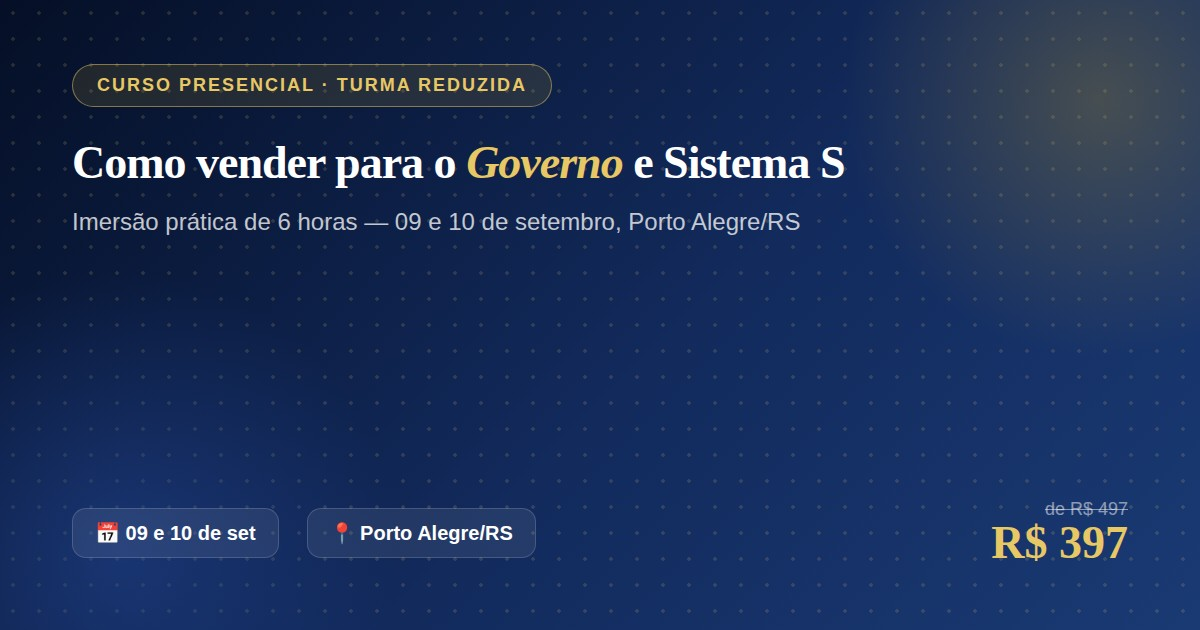
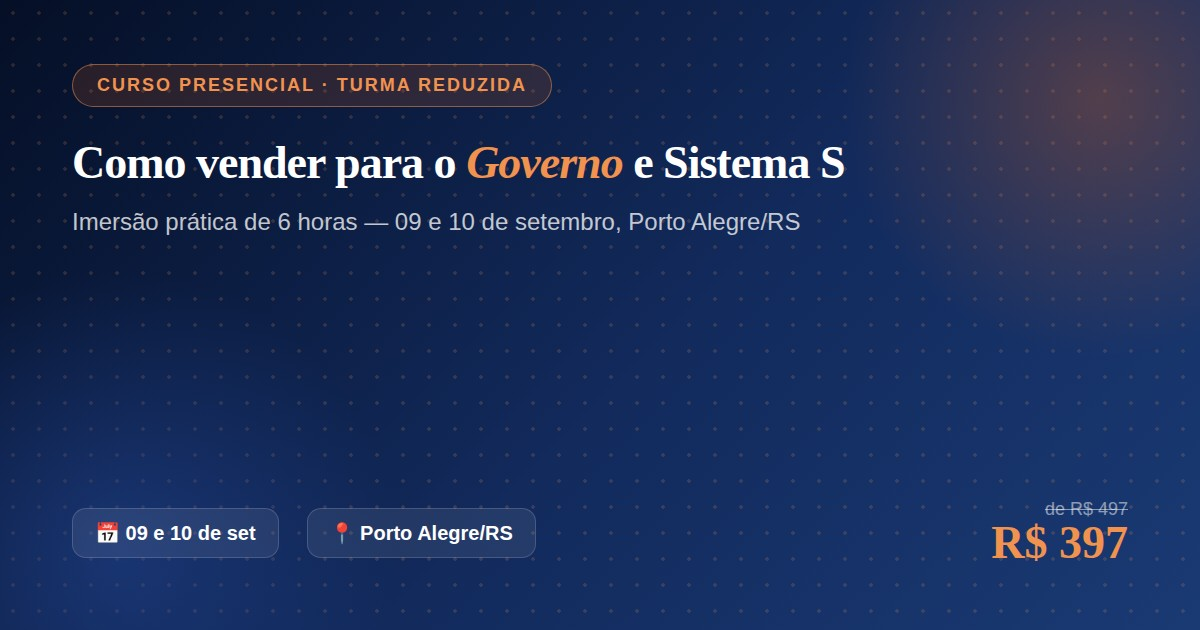
Warm up the palette: gold to terracotta orange, Bitter headlines
Swaps the metallic gold accent for a warmer terracotta/orange tone
throughout (buttons, badges, borders, dot texture) and replaces the
Fraunces display serif with Bitter — a sturdier, warmer slab serif —
for a more welcoming feel per feedback that the page read as flat.
Also warms the base background off pure white and regenerates the
share-preview image to match.

Changed region(s): [[0.0617, 0.1206, 0.4317, 0.1508], [0.8325, 0.8143, 0.9558, 0.9048], [0.37, 0.2413, 0.5242, 0.3016]]

diff --git a/index.html b/index.html
@@ -18,36 +18,36 @@
 <link rel="icon" type="image/png" href="assets/logo/simbolo-azul-profundo.png" />
 <link rel="preconnect" href="https://fonts.googleapis.com" />
 <link rel="preconnect" href="https://fonts.gstatic.com" crossorigin />
-<link href="https://fonts.googleapis.com/css2?family=Fraunces:opsz,wght@9..144,400;9..144,500;9..144,600;9..144,700;9..144,800;9..144,900&family=Inter:wght@400;500;600;700;800;900&display=swap" rel="stylesheet" />
+<link href="https://fonts.googleapis.com/css2?family=Bitter:ital,wght@0,400;0,500;0,600;0,700;0,800;0,900;1,600&family=Inter:wght@400;500;600;700;800;900&display=swap" rel="stylesheet" />
 <style>
   :root {
     --azul-950:#050f26; --azul-900:#0a1f44; --azul-850:#0d264f; --azul-800:#122a5c;
     --azul-700:#1a3a74; --azul-600:#24499a; --azul-100:#e6ecfb; --azul-50:#f6f8fd;
     --marfim:#f8f4ea; --marfim-escuro:#efe6cf;
-    --dourado:#c9a227; --dourado-claro:#e8c765; --dourado-suave:#f4e5a1; --dourado-escuro:#8a6a15;
+    --laranja:#e2661a; --laranja-claro:#f2924f; --laranja-suave:#fbdcb8; --laranja-escuro:#a8460e;
     --esmeralda:#2f6d55; --esmeralda-bg:#e7f2ec;
     --vermelho:#b23b3b; --vermelho-bg:#fbeaea;
     --cinza-700:#374151; --cinza-600:#4b5563; --cinza-400:#9ca3af; --branco:#fff;
     --sombra:0 24px 60px rgba(5,15,38,.14); --sombra-sm:0 8px 24px rgba(5,15,38,.08);
     --raio:18px;
-    --grad-ouro:linear-gradient(135deg,var(--dourado-suave),var(--dourado-claro) 45%,var(--dourado));
+    --grad-laranja:linear-gradient(135deg,var(--laranja-suave),var(--laranja-claro) 45%,var(--laranja));
     --grad-azul:linear-gradient(135deg,var(--azul-950),var(--azul-800) 55%,var(--azul-700));
-    --pontilhado:radial-gradient(rgba(232,199,101,.16) 1px,transparent 1.5px);
+    --pontilhado:radial-gradient(rgba(242,146,79,.16) 1px,transparent 1.5px);
   }
   *{margin:0;padding:0;box-sizing:border-box}
   html{scroll-behavior:smooth}
-  body{font-family:'Inter',system-ui,sans-serif;color:var(--cinza-700);background:var(--branco);line-height:1.65;-webkit-font-smoothing:antialiased}
+  body{font-family:'Inter',system-ui,sans-serif;color:var(--cinza-700);background:#fffaf4;line-height:1.65;-webkit-font-smoothing:antialiased}
   .container{max-width:1140px;margin:0 auto;padding:0 20px}
-  h1,h2,h3{font-family:'Fraunces',serif}
+  h1,h2,h3{font-family:'Bitter',serif}
   em{font-style:italic}
 
   /* ===== TOPO ===== */
-  .topbar{background:var(--azul-950);color:rgba(255,255,255,.88);font-size:13px;font-weight:600;text-align:center;padding:11px 16px;letter-spacing:.3px;border-bottom:1px solid rgba(201,162,39,.25);display:flex;align-items:center;justify-content:center;gap:9px}
+  .topbar{background:var(--azul-950);color:rgba(255,255,255,.88);font-size:13px;font-weight:600;text-align:center;padding:11px 16px;letter-spacing:.3px;border-bottom:1px solid rgba(226,102,26,.25);display:flex;align-items:center;justify-content:center;gap:9px}
   .topbar img{height:16px;width:auto;opacity:.9}
-  .topbar span{color:var(--dourado-claro);font-weight:800}
+  .topbar span{color:var(--laranja-claro);font-weight:800}
 
   /* ===== CTA FIXA ===== */
-  .cta-fixa{position:fixed;top:0;left:0;right:0;background:var(--azul-950);border-bottom:1px solid rgba(201,162,39,.3);box-shadow:0 8px 24px rgba(5,15,38,.25);z-index:1000;transform:translateY(-100%);transition:transform .3s ease}
+  .cta-fixa{position:fixed;top:0;left:0;right:0;background:var(--azul-950);border-bottom:1px solid rgba(226,102,26,.3);box-shadow:0 8px 24px rgba(5,15,38,.25);z-index:1000;transform:translateY(-100%);transition:transform .3s ease}
   .cta-fixa.visivel{transform:translateY(0)}
   .cta-fixa .container{display:flex;align-items:center;justify-content:space-between;gap:16px;padding:12px 20px}
   .cta-fixa-texto{display:flex;flex-direction:column;color:#fff}
@@ -58,14 +58,14 @@
 
   /* ===== HERO ===== */
   .hero{position:relative;background:var(--pontilhado),var(--grad-azul);background-size:22px 22px,auto;color:#fff;padding:88px 0 0;overflow:hidden}
-  .hero::before{content:"";position:absolute;top:-140px;right:-140px;width:460px;height:460px;background:radial-gradient(circle,rgba(201,162,39,.22),transparent 70%);border-radius:50%}
+  .hero::before{content:"";position:absolute;top:-140px;right:-140px;width:460px;height:460px;background:radial-gradient(circle,rgba(226,102,26,.22),transparent 70%);border-radius:50%}
   .hero::after{content:"";position:absolute;bottom:-180px;left:-140px;width:520px;height:520px;background:radial-gradient(circle,rgba(36,73,154,.45),transparent 70%);border-radius:50%}
   .hero .container{position:relative;z-index:2;padding-bottom:64px}
-  .badge{display:inline-flex;align-items:center;gap:9px;background:rgba(201,162,39,.12);border:1px solid rgba(232,199,101,.5);color:var(--dourado-claro);font-weight:700;font-size:12.5px;text-transform:uppercase;letter-spacing:1.6px;padding:9px 20px;border-radius:100px;margin-bottom:26px}
-  .badge .ponto{width:7px;height:7px;background:var(--dourado-claro);border-radius:50%;animation:pulse 1.8s infinite}
+  .badge{display:inline-flex;align-items:center;gap:9px;background:rgba(226,102,26,.12);border:1px solid rgba(242,146,79,.5);color:var(--laranja-claro);font-weight:700;font-size:12.5px;text-transform:uppercase;letter-spacing:1.6px;padding:9px 20px;border-radius:100px;margin-bottom:26px}
+  .badge .ponto{width:7px;height:7px;background:var(--laranja-claro);border-radius:50%;animation:pulse 1.8s infinite}
   @keyframes pulse{0%,100%{opacity:1;transform:scale(1)}50%{opacity:.35;transform:scale(.7)}}
   .hero h1{font-size:clamp(32px,5vw,54px);font-weight:800;line-height:1.16;letter-spacing:-.5px;margin-bottom:24px;max-width:820px}
-  .hero h1 em{font-style:italic;font-weight:700;color:var(--dourado-claro)}
+  .hero h1 em{font-style:italic;font-weight:700;color:var(--laranja-claro)}
   .hero .subtitulo{font-size:clamp(16px,1.9vw,19px);font-weight:400;color:rgba(255,255,255,.82);max-width:660px;margin-bottom:34px}
   .hero .subtitulo strong{color:#fff;font-weight:700}
   .hero-instrutores{display:inline-flex;align-items:center;gap:12px;background:rgba(255,255,255,.05);border:1px solid rgba(255,255,255,.12);padding:8px 18px 8px 8px;border-radius:100px;margin-bottom:32px}
@@ -73,22 +73,22 @@
   .hero-instrutores .avatares img{width:34px;height:34px;border-radius:50%;object-fit:cover;border:2px solid var(--azul-900);box-shadow:0 2px 8px rgba(0,0,0,.3)}
   .hero-instrutores .avatares img:not(:first-child){margin-left:-10px}
   .hero-instrutores span{font-size:13px;font-weight:600;color:rgba(255,255,255,.85)}
-  .hero-instrutores strong{color:var(--dourado-claro);font-weight:700}
+  .hero-instrutores strong{color:var(--laranja-claro);font-weight:700}
 
   .info-evento{display:flex;flex-wrap:wrap;gap:12px;margin-bottom:36px}
   .info-chip{display:inline-flex;align-items:center;gap:9px;background:rgba(255,255,255,.07);border:1px solid rgba(255,255,255,.14);backdrop-filter:blur(6px);padding:10px 17px;border-radius:12px;font-size:13.5px;font-weight:600;color:rgba(255,255,255,.92)}
 
-  .cta-principal{display:inline-flex;align-items:center;justify-content:center;gap:10px;background:var(--grad-ouro);color:var(--azul-950);font-weight:800;font-size:16px;letter-spacing:.2px;padding:18px 32px;border-radius:12px;text-decoration:none;box-shadow:0 14px 34px rgba(201,162,39,.32);transition:transform .2s,box-shadow .2s;margin-bottom:14px;cursor:pointer;border:none}
-  .cta-principal:hover{transform:translateY(-3px);box-shadow:0 20px 44px rgba(201,162,39,.42)}
+  .cta-principal{display:inline-flex;align-items:center;justify-content:center;gap:10px;background:var(--grad-laranja);color:var(--azul-950);font-weight:800;font-size:16px;letter-spacing:.2px;padding:18px 32px;border-radius:12px;text-decoration:none;box-shadow:0 14px 34px rgba(226,102,26,.32);transition:transform .2s,box-shadow .2s;margin-bottom:14px;cursor:pointer;border:none}
+  .cta-principal:hover{transform:translateY(-3px);box-shadow:0 20px 44px rgba(226,102,26,.42)}
   .cta-secundario{display:inline-flex;align-items:center;gap:10px;color:#fff;font-weight:600;font-size:14.5px;text-decoration:none;padding:16px 26px;border:1.5px solid rgba(255,255,255,.32);border-radius:12px;margin-left:12px;transition:background .2s,border-color .2s}
   .cta-secundario:hover{background:rgba(255,255,255,.08);border-color:rgba(255,255,255,.5)}
   .cta-linha{display:flex;flex-wrap:wrap;align-items:center}
   .vagas{font-size:14px;color:rgba(255,255,255,.72);font-weight:500;margin-top:6px}
-  .vagas b{color:var(--dourado-claro);font-weight:700}
+  .vagas b{color:var(--laranja-claro);font-weight:700}
 
   .countdown-wrap{display:grid;grid-template-columns:repeat(4,1fr);gap:12px;max-width:460px;margin-top:38px}
   .count-item{background:rgba(255,255,255,.06);border:1px solid rgba(255,255,255,.14);border-radius:14px;padding:15px 10px;text-align:center}
-  .count-item .num{font-family:'Fraunces',serif;font-size:30px;font-weight:700;color:var(--dourado-claro);line-height:1}
+  .count-item .num{font-family:'Bitter',serif;font-size:30px;font-weight:700;color:var(--laranja-claro);line-height:1}
   .count-item .label{font-size:10.5px;text-transform:uppercase;letter-spacing:1.2px;color:rgba(255,255,255,.65);margin-top:6px}
   .countdown-titulo{font-size:13.5px;font-weight:600;color:rgba(255,255,255,.7);margin-bottom:14px}
 
@@ -96,12 +96,12 @@
   .trust-bar{background:var(--marfim);border-bottom:1px solid var(--marfim-escuro)}
   .trust-grid{display:grid;grid-template-columns:repeat(4,1fr);gap:8px;padding:26px 0}
   .trust-item{display:flex;align-items:center;gap:10px;justify-content:center;text-align:center;font-size:13.5px;font-weight:700;color:var(--azul-900);padding:6px 10px}
-  .trust-item .marca{color:var(--dourado-escuro);font-family:'Fraunces',serif;font-weight:700}
+  .trust-item .marca{color:var(--laranja-escuro);font-family:'Bitter',serif;font-weight:700}
 
   /* ===== SEÇÕES ===== */
   section{padding:88px 0}
   .section-tag{display:inline-block;color:var(--azul-600);background:var(--azul-50);border:1px solid var(--azul-100);font-size:11.5px;font-weight:800;text-transform:uppercase;letter-spacing:1.5px;padding:7px 16px;border-radius:100px;margin-bottom:16px}
-  .section-tag.dourado{color:var(--dourado-escuro);background:#fdf7e4;border-color:#eddca0}
+  .section-tag.laranja{color:var(--laranja-escuro);background:#fdf0e4;border-color:#f3cda3}
   h2.titulo-secao{font-size:clamp(26px,3.4vw,40px);font-weight:700;letter-spacing:-.5px;line-height:1.22;color:var(--azul-950);margin-bottom:16px}
   .subtitulo-secao{font-size:16.5px;color:var(--cinza-600);max-width:680px}
   .centro{text-align:center}
@@ -109,9 +109,9 @@
 
   /* ===== VOCÊ SABIA ===== */
   .voce-sabia{background:linear-gradient(180deg,#faf8f0,#fff)}
-  .destaque-chamada{background:var(--pontilhado),var(--grad-azul);background-size:22px 22px,auto;color:#fff;border-radius:var(--raio);padding:46px 42px;position:relative;overflow:hidden;box-shadow:var(--sombra);border:1px solid rgba(201,162,39,.25)}
-  .destaque-chamada p{font-size:clamp(16px,1.9vw,19px);max-width:800px;color:rgba(255,255,255,.9);font-family:'Fraunces',serif;font-weight:400;line-height:1.55}
-  .destaque-chamada b{color:var(--dourado-claro);font-weight:700}
+  .destaque-chamada{background:var(--pontilhado),var(--grad-azul);background-size:22px 22px,auto;color:#fff;border-radius:var(--raio);padding:46px 42px;position:relative;overflow:hidden;box-shadow:var(--sombra);border:1px solid rgba(226,102,26,.25)}
+  .destaque-chamada p{font-size:clamp(16px,1.9vw,19px);max-width:800px;color:rgba(255,255,255,.9);font-family:'Bitter',serif;font-weight:400;line-height:1.55}
+  .destaque-chamada b{color:var(--laranja-claro);font-weight:700}
 
   /* ===== MITO vs VERDADE ===== */
   .mito{background:var(--azul-50)}
@@ -121,7 +121,7 @@
   .mito-card.mito-verdade{background:var(--grad-azul);color:#fff;border:1.5px solid var(--azul-900)}
   .mito-card .rotulo{font-size:11.5px;font-weight:800;text-transform:uppercase;letter-spacing:1.5px;margin-bottom:12px}
   .mito-falso .rotulo{color:var(--vermelho)}
-  .mito-verdade .rotulo{color:var(--dourado-claro)}
+  .mito-verdade .rotulo{color:var(--laranja-claro)}
   .mito-card h3{font-size:19px;font-weight:700;margin-bottom:10px;line-height:1.35}
   .mito-verdade h3{color:#fff}
   .mito-card p{font-size:14.5px;color:var(--cinza-600)}
@@ -130,7 +130,7 @@
   /* ===== PARA QUEM É ===== */
   .perfis{display:grid;grid-template-columns:repeat(auto-fit,minmax(280px,1fr));gap:16px;margin-top:38px}
   .perfil-card{display:flex;align-items:flex-start;gap:14px;background:#fff;border:1px solid #e7e0cd;border-radius:14px;padding:20px;transition:transform .2s,box-shadow .2s,border-color .2s}
-  .perfil-card:hover{transform:translateY(-4px);box-shadow:var(--sombra-sm);border-color:var(--dourado-claro)}
+  .perfil-card:hover{transform:translateY(-4px);box-shadow:var(--sombra-sm);border-color:var(--laranja-claro)}
   .perfil-card .check{flex-shrink:0;width:28px;height:28px;background:var(--esmeralda-bg);color:var(--esmeralda);border-radius:50%;display:grid;place-items:center;font-size:13px;font-weight:900}
   .perfil-card p{font-weight:600;color:#1f2937;font-size:15px}
 
@@ -140,12 +140,12 @@
   .modulos .subtitulo-secao{color:rgba(255,255,255,.68)}
   .modulos-grid{display:grid;grid-template-columns:repeat(auto-fit,minmax(320px,1fr));gap:18px;margin-top:42px}
   .modulo-card{background:rgba(255,255,255,.04);border:1px solid rgba(255,255,255,.1);border-radius:var(--raio);padding:28px;transition:transform .25s,background .25s,border-color .25s;display:flex;flex-direction:column}
-  .modulo-card:hover{transform:translateY(-5px);background:rgba(255,255,255,.07);border-color:rgba(232,199,101,.45)}
-  .modulo-num{font-size:11.5px;font-weight:800;text-transform:uppercase;letter-spacing:1.5px;color:var(--dourado-claro);margin-bottom:10px}
+  .modulo-card:hover{transform:translateY(-5px);background:rgba(255,255,255,.07);border-color:rgba(242,146,79,.45)}
+  .modulo-num{font-size:11.5px;font-weight:800;text-transform:uppercase;letter-spacing:1.5px;color:var(--laranja-claro);margin-bottom:10px}
   .modulo-card h3{font-size:18px;font-weight:600;margin-bottom:14px;line-height:1.35}
   .modulo-card ul{list-style:none}
   .modulo-card li{font-size:13.5px;color:rgba(255,255,255,.78);padding-left:20px;position:relative;margin-bottom:8px}
-  .modulo-card li::before{content:"—";position:absolute;left:0;color:var(--dourado-claro);font-weight:700}
+  .modulo-card li::before{content:"—";position:absolute;left:0;color:var(--laranja-claro);font-weight:700}
 
   /* ===== BÔNUS ===== */
   .bonus-grid{display:grid;grid-template-columns:repeat(auto-fit,minmax(240px,1fr));gap:16px;margin-top:38px}
@@ -155,19 +155,19 @@
   /* ===== INSTRUTORES ===== */
   .instrutores{background:var(--marfim)}
   .instrutor-grid{display:grid;grid-template-columns:repeat(auto-fit,minmax(320px,1fr));gap:26px;margin-top:42px}
-  .instrutor-card{background:#fff;border-radius:var(--raio);padding:38px 34px 32px;box-shadow:0 12px 34px rgba(5,15,38,.09);border-top:3px solid var(--dourado);text-align:center}
+  .instrutor-card{background:#fff;border-radius:var(--raio);padding:38px 34px 32px;box-shadow:0 12px 34px rgba(5,15,38,.09);border-top:3px solid var(--laranja);text-align:center}
   .instrutor-foto-wrap{position:relative;width:128px;height:128px;margin:0 auto 20px}
-  .instrutor-foto-fallback{width:128px;height:128px;border-radius:50%;background:var(--grad-azul);color:var(--dourado-claro);display:grid;place-items:center;font-family:'Fraunces',serif;font-size:38px;font-weight:600;border:3px solid var(--dourado-claro);box-shadow:0 10px 24px rgba(5,15,38,.22)}
-  .instrutor-foto{position:absolute;inset:0;width:128px;height:128px;border-radius:50%;object-fit:cover;box-shadow:0 10px 24px rgba(5,15,38,.22);border:3px solid var(--dourado)}
+  .instrutor-foto-fallback{width:128px;height:128px;border-radius:50%;background:var(--grad-azul);color:var(--laranja-claro);display:grid;place-items:center;font-family:'Bitter',serif;font-size:38px;font-weight:600;border:3px solid var(--laranja-claro);box-shadow:0 10px 24px rgba(5,15,38,.22)}
+  .instrutor-foto{position:absolute;inset:0;width:128px;height:128px;border-radius:50%;object-fit:cover;box-shadow:0 10px 24px rgba(5,15,38,.22);border:3px solid var(--laranja)}
   .instrutor-card h3{font-size:21px;font-weight:700;color:var(--azul-950)}
-  .instrutor-card .cargo{font-size:12.5px;color:var(--dourado-escuro);font-weight:700;text-transform:uppercase;letter-spacing:.8px;margin:7px 0 15px}
+  .instrutor-card .cargo{font-size:12.5px;color:var(--laranja-escuro);font-weight:700;text-transform:uppercase;letter-spacing:.8px;margin:7px 0 15px}
   .instrutor-card p{font-size:14.5px;color:var(--cinza-600)}
 
   /* ===== POR QUE FAZER ===== */
   .motivos-grid{display:grid;grid-template-columns:repeat(auto-fit,minmax(200px,1fr));gap:20px;margin-top:42px}
   .motivo-card{text-align:center;padding:32px 20px;background:#fff;border:1px solid #ecebe3;border-radius:var(--raio);transition:transform .2s,box-shadow .2s}
   .motivo-card:hover{transform:translateY(-5px);box-shadow:var(--sombra-sm)}
-  .motivo-card .marca-num{width:44px;height:44px;margin:0 auto 16px;border-radius:50%;background:var(--azul-50);color:var(--azul-700);display:grid;place-items:center;font-family:'Fraunces',serif;font-weight:700;font-size:17px;border:1px solid var(--azul-100)}
+  .motivo-card .marca-num{width:44px;height:44px;margin:0 auto 16px;border-radius:50%;background:var(--azul-50);color:var(--azul-700);display:grid;place-items:center;font-family:'Bitter',serif;font-weight:700;font-size:17px;border:1px solid var(--azul-100)}
   .motivo-card h3{font-size:15.5px;font-weight:700;color:var(--azul-950);margin-bottom:8px}
   .motivo-card p{font-size:13.5px;color:var(--cinza-600)}
 
@@ -176,14 +176,14 @@
   .evento-info{background:var(--grad-azul);color:#fff;padding:46px}
   .evento-info h3{font-size:22px;font-weight:600;margin-bottom:26px}
   .evento-linha{display:flex;gap:14px;margin-bottom:19px;align-items:flex-start}
-  .evento-linha .icone{width:38px;height:38px;background:rgba(201,162,39,.16);border-radius:10px;display:grid;place-items:center;flex-shrink:0;font-size:16px}
+  .evento-linha .icone{width:38px;height:38px;background:rgba(226,102,26,.16);border-radius:10px;display:grid;place-items:center;flex-shrink:0;font-size:16px}
   .evento-linha .rotulo{font-size:11.5px;text-transform:uppercase;letter-spacing:1px;color:rgba(255,255,255,.6);font-weight:700}
   .evento-linha .valor{font-size:15.5px;font-weight:600}
   .evento-preco{position:relative;display:grid;place-items:center;padding:46px;text-align:center;background:#fff}
   .evento-preco .selo{position:absolute;top:22px;right:22px;background:var(--esmeralda-bg);color:var(--esmeralda);font-size:11px;font-weight:800;text-transform:uppercase;letter-spacing:.6px;padding:6px 12px;border-radius:100px}
   .evento-preco .de{font-size:13.5px;color:var(--cinza-400);text-decoration:line-through;font-weight:600}
   .evento-preco .por{font-size:13px;font-weight:700;color:var(--cinza-600);margin-top:6px;text-transform:uppercase;letter-spacing:.5px}
-  .evento-preco .preco{font-family:'Fraunces',serif;font-size:54px;font-weight:700;color:var(--azul-950);line-height:1;margin:10px 0 4px}
+  .evento-preco .preco{font-family:'Bitter',serif;font-size:54px;font-weight:700;color:var(--azul-950);line-height:1;margin:10px 0 4px}
   .evento-preco .preco small{font-size:22px;font-weight:600}
   .evento-preco .pagamento{font-size:12.5px;color:var(--cinza-600);margin-bottom:26px}
   .evento-preco .cta-principal{font-size:14.5px;padding:16px 26px;margin-bottom:0}
@@ -192,24 +192,24 @@
   .incluso-grid{display:grid;grid-template-columns:repeat(auto-fit,minmax(280px,1fr));gap:12px}
   .incluso-item{display:flex;align-items:center;gap:10px;font-size:14px;font-weight:500;color:#1f2937;padding:11px 14px;background:var(--azul-50);border-radius:10px}
   .incluso-item .check{color:var(--esmeralda);font-weight:900;flex-shrink:0}
-  .nota-investimento{text-align:center;margin-top:22px;font-size:14.5px;color:var(--azul-950);font-weight:600;font-family:'Fraunces',serif;font-style:italic}
+  .nota-investimento{text-align:center;margin-top:22px;font-size:14.5px;color:var(--azul-950);font-weight:600;font-family:'Bitter',serif;font-style:italic}
 
   /* ===== FAQ ===== */
   .faq{background:#faf8f0}
   .faq-lista{max-width:800px;margin:42px auto 0}
   .faq-item{background:#fff;border:1px solid #ecebe3;border-radius:14px;margin-bottom:12px;overflow:hidden;transition:box-shadow .2s}
-  .faq-item.ativo{box-shadow:0 8px 26px rgba(5,15,38,.09);border-color:var(--dourado-claro)}
+  .faq-item.ativo{box-shadow:0 8px 26px rgba(5,15,38,.09);border-color:var(--laranja-claro)}
   .faq-pergunta{width:100%;background:none;border:none;padding:20px 24px;font-family:inherit;font-size:15.5px;font-weight:700;color:var(--azul-950);text-align:left;cursor:pointer;display:flex;justify-content:space-between;align-items:center;gap:16px}
-  .faq-pergunta .seta{transition:transform .3s;color:var(--dourado-escuro);flex-shrink:0;font-size:17px}
+  .faq-pergunta .seta{transition:transform .3s;color:var(--laranja-escuro);flex-shrink:0;font-size:17px}
   .faq-item.ativo .faq-pergunta .seta{transform:rotate(180deg)}
   .faq-resposta{max-height:0;overflow:hidden;transition:max-height .35s ease}
   .faq-resposta p{padding:0 24px 22px;font-size:14.5px;color:var(--cinza-600)}
 
   /* ===== CONTATO FINAL ===== */
   .contato-final{background:var(--pontilhado),var(--grad-azul);background-size:22px 22px,auto;color:#fff;text-align:center;position:relative;overflow:hidden}
-  .contato-final::before{content:"";position:absolute;top:-90px;left:50%;transform:translateX(-50%);width:520px;height:520px;background:radial-gradient(circle,rgba(201,162,39,.15),transparent 70%);border-radius:50%}
+  .contato-final::before{content:"";position:absolute;top:-90px;left:50%;transform:translateX(-50%);width:520px;height:520px;background:radial-gradient(circle,rgba(226,102,26,.15),transparent 70%);border-radius:50%}
   .contato-final .container{position:relative;z-index:2}
-  .contato-final .section-tag{background:rgba(232,199,101,.14);border-color:rgba(232,199,101,.4);color:var(--dourado-claro)}
+  .contato-final .section-tag{background:rgba(242,146,79,.14);border-color:rgba(242,146,79,.4);color:var(--laranja-claro)}
   .contato-final h2{font-size:clamp(24px,3.2vw,36px);font-weight:700;margin-bottom:14px;color:#fff}
   .contato-final p{color:rgba(255,255,255,.72);font-size:16.5px;margin-bottom:32px;max-width:600px;margin-left:auto;margin-right:auto}
   .contato-meios{display:flex;flex-wrap:wrap;justify-content:center;gap:16px;margin-bottom:42px}
@@ -219,11 +219,11 @@
   .contato-meio.whats:hover{background:#1fbd5a}
 
   /* ===== RODAPÉ ===== */
-  footer{background:var(--azul-950);border-top:1px solid rgba(201,162,39,.18);color:rgba(255,255,255,.6);text-align:center;padding:30px 20px;font-size:13px}
-  footer .realizacao{color:var(--dourado-claro);font-weight:600}
+  footer{background:var(--azul-950);border-top:1px solid rgba(226,102,26,.18);color:rgba(255,255,255,.6);text-align:center;padding:30px 20px;font-size:13px}
+  footer .realizacao{color:var(--laranja-claro);font-weight:600}
   footer .redes{margin-top:14px;display:flex;justify-content:center;gap:10px}
   footer .redes a{width:38px;height:38px;border-radius:10px;background:rgba(255,255,255,.06);display:grid;place-items:center;color:#fff;text-decoration:none;font-size:16px;transition:background .2s,transform .2s}
-  footer .redes a:hover{background:var(--dourado);color:var(--azul-950);transform:translateY(-2px)}
+  footer .redes a:hover{background:var(--laranja);color:var(--azul-950);transform:translateY(-2px)}
   footer .copyright{margin-top:14px;font-size:12px}
 
   /* ===== ANIMAÇÃO ===== */
@@ -313,7 +313,7 @@
 <section class="voce-sabia">
   <div class="container">
     <div class="destaque-chamada reveal">
-      <span class="section-tag dourado">Você sabia?</span>
+      <span class="section-tag laranja">Você sabia?</span>
       <p>Todos os dias, <b>prefeituras, hospitais, universidades e o Sistema S</b> compram produtos e serviços de empresas como a sua — e a maioria dos empresários não faz ideia de que essas portas estão abertas. O resultado: <b>milhões de reais ficam na mesa</b>, ano após ano. Enquanto você lê este parágrafo, algum concorrente pode estar fechando uma licitação que poderia ser sua.</p>
     </div>
   </div>
@@ -360,7 +360,7 @@
 <!-- ===== MÓDULOS ===== -->
 <section class="modulos">
   <div class="container centro">
-    <span class="section-tag dourado">Conteúdo programático</span>
+    <span class="section-tag laranja">Conteúdo programático</span>
     <h2 class="titulo-secao">O que você domina em 6 horas</h2>
     <p class="subtitulo-secao">7 módulos objetivos, com exemplos reais, demonstrações e estudos de caso — do entendimento do mercado ao seu plano de ação.</p>
     <div class="modulos-grid">
@@ -399,8 +399,8 @@
         <h3>Pregão Eletrônico na Prática</h3>
         <ul><li>Etapas do pregão eletrônico e estratégias</li><li>Envio de propostas, disputa de lances e habilitação</li><li>Recursos administrativos e erros mais comuns</li></ul>
       </div>
-      <div class="modulo-card reveal" style="border-color:rgba(232,199,101,.5);background:rgba(201,162,39,.06)">
-        <span class="modulo-num" style="color:var(--dourado-claro)">Encerramento</span>
+      <div class="modulo-card reveal" style="border-color:rgba(242,146,79,.5);background:rgba(226,102,26,.06)">
+        <span class="modulo-num" style="color:var(--laranja-claro)">Encerramento</span>
         <h3>Plano de Ação — seus primeiros 30 dias</h3>
         <ul><li>Plano de ação para os primeiros 30 dias de atuação</li><li>Organização documental e rotina de monitoramento</li><li>Identificação das primeiras oportunidades e próximos passos</li></ul>
       </div>
